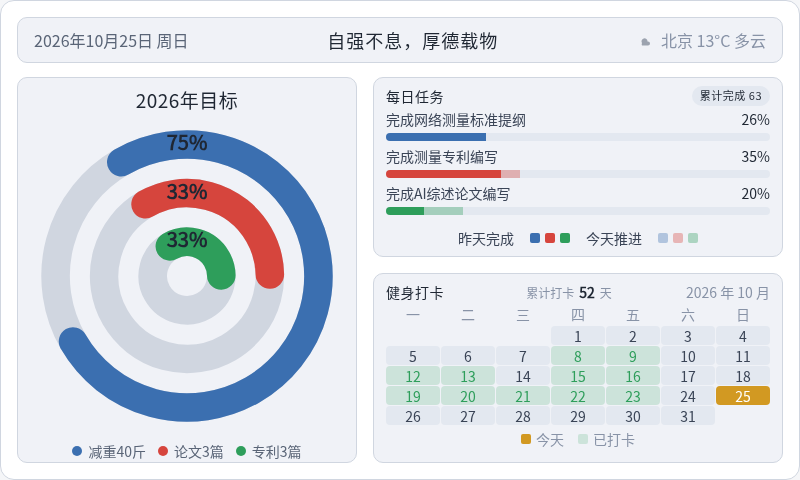
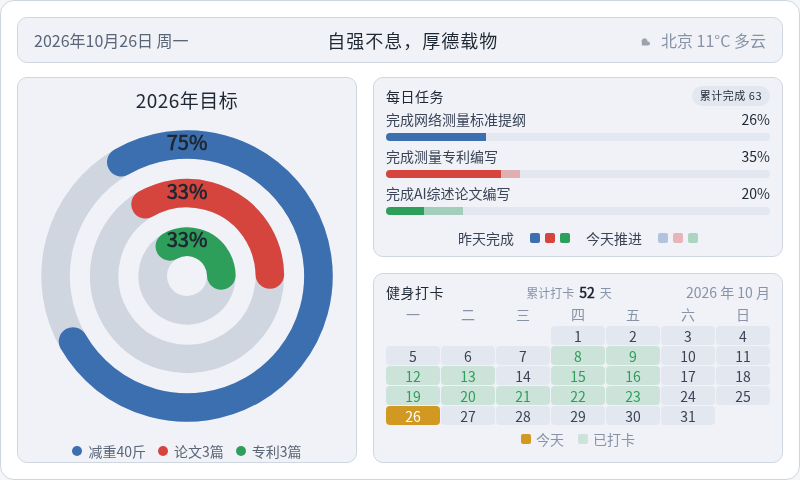
chore: 每日看板刷新 2026-10-26

diff --git a/output/dashboard/dashboard.html b/output/dashboard/dashboard.html
@@ -185,11 +185,11 @@
 <body>
   <div class="dash">
     <div class="topbar">
-      <div class="tb-date" id="tbDate">2026年10月25日 周日</div>
+      <div class="tb-date" id="tbDate">2026年10月26日 周一</div>
       <div class="tb-slogan">自强不息，厚德载物</div>
       <div class="tb-weather">
         <svg width="16" height="16" viewBox="0 0 16 16" aria-hidden="true"><path d="M5 11 a3 3 0 1 1 5.5 -1.5 h0.5 a2 2 0 1 1 0 4 H5 a2.5 2.5 0 0 1 0 -2.5z" fill="#9ca3af"/></svg>
-        <span>北京 13°C 多云</span>
+        <span>北京 11°C 多云</span>
       </div>
     </div>
     <div class="content">
@@ -248,7 +248,7 @@
           <span class="cal-date">2026 年 10 月</span>
         </div>
         <div class="cal-grid wk"><span>一</span><span>二</span><span>三</span><span>四</span><span>五</span><span>六</span><span>日</span></div>
-        <div class="cal-grid"><span class="cell empty"></span><span class="cell empty"></span><span class="cell empty"></span><span class="cell" style="background:#e3e8f0;color:#3a4456">1</span><span class="cell" style="background:#e3e8f0;color:#3a4456">2</span><span class="cell" style="background:#e3e8f0;color:#3a4456">3</span><span class="cell" style="background:#e3e8f0;color:#3a4456">4</span><span class="cell" style="background:#e3e8f0;color:#3a4456">5</span><span class="cell" style="background:#e3e8f0;color:#3a4456">6</span><span class="cell" style="background:#e3e8f0;color:#3a4456">7</span><span class="cell done" style="background:rgba(46,158,91,0.18);color:#2e9e5b">8</span><span class="cell done" style="background:rgba(46,158,91,0.18);color:#2e9e5b">9</span><span class="cell" style="background:#e3e8f0;color:#3a4456">10</span><span class="cell" style="background:#e3e8f0;color:#3a4456">11</span><span class="cell done" style="background:rgba(46,158,91,0.18);color:#2e9e5b">12</span><span class="cell done" style="background:rgba(46,158,91,0.18);color:#2e9e5b">13</span><span class="cell" style="background:#e3e8f0;color:#3a4456">14</span><span class="cell done" style="background:rgba(46,158,91,0.18);color:#2e9e5b">15</span><span class="cell done" style="background:rgba(46,158,91,0.18);color:#2e9e5b">16</span><span class="cell" style="background:#e3e8f0;color:#3a4456">17</span><span class="cell" style="background:#e3e8f0;color:#3a4456">18</span><span class="cell done" style="background:rgba(46,158,91,0.18);color:#2e9e5b">19</span><span class="cell done" style="background:rgba(46,158,91,0.18);color:#2e9e5b">20</span><span class="cell done" style="background:rgba(46,158,91,0.18);color:#2e9e5b">21</span><span class="cell done" style="background:rgba(46,158,91,0.18);color:#2e9e5b">22</span><span class="cell done" style="background:rgba(46,158,91,0.18);color:#2e9e5b">23</span><span class="cell" style="background:#e3e8f0;color:#3a4456">24</span><span class="cell today" style="background:#d29922;color:#ffffff">25</span><span class="cell" style="background:#e3e8f0;color:#3a4456">26</span><span class="cell" style="background:#e3e8f0;color:#3a4456">27</span><span class="cell" style="background:#e3e8f0;color:#3a4456">28</span><span class="cell" style="background:#e3e8f0;color:#3a4456">29</span><span class="cell" style="background:#e3e8f0;color:#3a4456">30</span><span class="cell" style="background:#e3e8f0;color:#3a4456">31</span></div>
+        <div class="cal-grid"><span class="cell empty"></span><span class="cell empty"></span><span class="cell empty"></span><span class="cell" style="background:#e3e8f0;color:#3a4456">1</span><span class="cell" style="background:#e3e8f0;color:#3a4456">2</span><span class="cell" style="background:#e3e8f0;color:#3a4456">3</span><span class="cell" style="background:#e3e8f0;color:#3a4456">4</span><span class="cell" style="background:#e3e8f0;color:#3a4456">5</span><span class="cell" style="background:#e3e8f0;color:#3a4456">6</span><span class="cell" style="background:#e3e8f0;color:#3a4456">7</span><span class="cell done" style="background:rgba(46,158,91,0.18);color:#2e9e5b">8</span><span class="cell done" style="background:rgba(46,158,91,0.18);color:#2e9e5b">9</span><span class="cell" style="background:#e3e8f0;color:#3a4456">10</span><span class="cell" style="background:#e3e8f0;color:#3a4456">11</span><span class="cell done" style="background:rgba(46,158,91,0.18);color:#2e9e5b">12</span><span class="cell done" style="background:rgba(46,158,91,0.18);color:#2e9e5b">13</span><span class="cell" style="background:#e3e8f0;color:#3a4456">14</span><span class="cell done" style="background:rgba(46,158,91,0.18);color:#2e9e5b">15</span><span class="cell done" style="background:rgba(46,158,91,0.18);color:#2e9e5b">16</span><span class="cell" style="background:#e3e8f0;color:#3a4456">17</span><span class="cell" style="background:#e3e8f0;color:#3a4456">18</span><span class="cell done" style="background:rgba(46,158,91,0.18);color:#2e9e5b">19</span><span class="cell done" style="background:rgba(46,158,91,0.18);color:#2e9e5b">20</span><span class="cell done" style="background:rgba(46,158,91,0.18);color:#2e9e5b">21</span><span class="cell done" style="background:rgba(46,158,91,0.18);color:#2e9e5b">22</span><span class="cell done" style="background:rgba(46,158,91,0.18);color:#2e9e5b">23</span><span class="cell" style="background:#e3e8f0;color:#3a4456">24</span><span class="cell" style="background:#e3e8f0;color:#3a4456">25</span><span class="cell today" style="background:#d29922;color:#ffffff">26</span><span class="cell" style="background:#e3e8f0;color:#3a4456">27</span><span class="cell" style="background:#e3e8f0;color:#3a4456">28</span><span class="cell" style="background:#e3e8f0;color:#3a4456">29</span><span class="cell" style="background:#e3e8f0;color:#3a4456">30</span><span class="cell" style="background:#e3e8f0;color:#3a4456">31</span></div>
         <div class="cal-legend">
           <span style="color:#8893a7"><i class="sw" style="background:#d29922"></i>今天</span>
           <span style="color:#8893a7"><i class="sw" style="background:rgba(46,158,91,0.18)"></i>已打卡</span>
